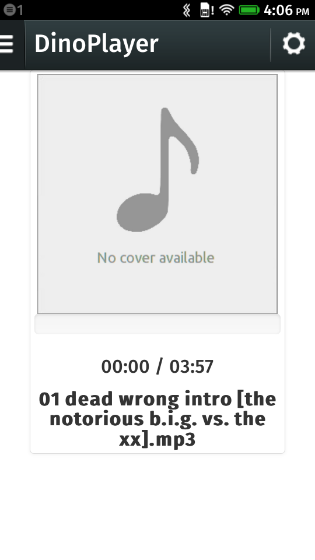
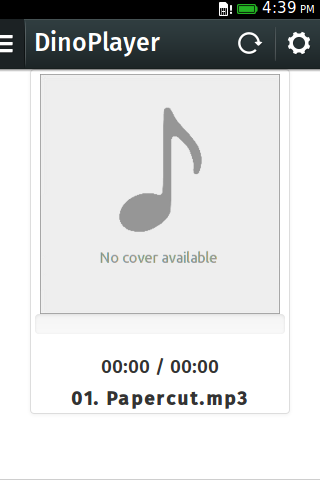
reload playlist button added

diff --git a/app/scripts/controllers/main.js b/app/scripts/controllers/main.js
@@ -20,6 +20,7 @@ angular.module('dinoplayerApp').controller('MainCtrl', ['$scope', '$timeout', '$
 
         if ($rootScope.isPlaying == undefined) {
             $rootScope.isPlaying = false;
+            $rootScope.$broadcast('controlchanged');
         }
 
         // set hash to handle details with server
@@ -111,6 +112,8 @@ angular.module('dinoplayerApp').controller('MainCtrl', ['$scope', '$timeout', '$
             var playlist = JSON.parse(playlist);
         } catch (error) {
             utils.status.show($translate('ERROR_PARSING_PLAYLIST'));
+            $rootScope.isLoaded = false;
+            return;
         }
         $rootScope.playlist = new Array();
         for (var i = 0; i < playlist.length; i++) {
@@ -124,18 +127,33 @@ angular.module('dinoplayerApp').controller('MainCtrl', ['$scope', '$timeout', '$
         $scope.$apply();
     };
 
+    $scope.reloadPlaylist = function() {
+        if ($rootScope.isPlaying) {
+            $rootScope.playPause();
+            console.log($rootScope.isPlaying);
+        }
+        if ($rootScope.settings.mediaurl == "") {
+            utils.status.show($translate('ERROR_NO_MEDIAURL'));
+        } else {
+            $scope.makeRequest($rootScope.settings.serviceurl + $rootScope.settings.mediaurl + "list.json", 'list');
+        }
+        console.log($rootScope.isPlaying);
+    };
+
     $rootScope.playPause = function() {
         if (!$rootScope.isLoaded) {
             utils.status.show($translate('ERROR_PLAYLIST_NOT_LOADED'));
-            return -1;
+            return;
         }
         if (!$rootScope.isPlaying) {
             $scope.getTrackIframe($rootScope.playlist[$rootScope.trackCounter].filename);
             $rootScope.audio.play();
             $rootScope.isPlaying = true;
+            $rootScope.$broadcast('controlchanged');
         } else {
             $rootScope.audio.pause();
             $rootScope.isPlaying = false;
+            $rootScope.$broadcast('controlchanged');
         }
     };
 
@@ -280,6 +298,7 @@ angular.module('dinoplayerApp').controller('MainCtrl', ['$scope', '$timeout', '$
         if ($rootScope.isPlaying) {
             $rootScope.audio.pause();
             $rootScope.isPlaying = false;
+            $rootScope.$broadcast('controlchanged');
             wasPlaying = true;
         }
         $rootScope.trackCounter = index;

diff --git a/app/scripts/app.js b/app/scripts/app.js
@@ -30,7 +30,8 @@ angular.module('dinoplayerApp', ['ui.bootstrap', 'pascalprecht.translate', 'angu
             'ERROR_PARSING_PLAYLIST': 'Error while parsing playlist!',
             'ERROR_PARSING_DETAILS': 'Error while parsing details',
             'ERROR_PARSING_COVER': 'Error while parsing cover',
-            'ERROR_PARSING_SETTINGS': 'Error while pasing settings'
+            'ERROR_PARSING_SETTINGS': 'Error while pasing settings',
+            'ERROR_NO_MEDIAURL': 'Please add a music folder first'
         });
 
         var huTranslation = {
@@ -51,7 +52,8 @@ angular.module('dinoplayerApp', ['ui.bootstrap', 'pascalprecht.translate', 'angu
             'ERROR_PARSING_PLAYLIST': 'Hiba történt a lejátszólista olvasásánál',
             'ERROR_PARSING_DETAILS': 'Hiba történt a szám részleteinek olvasásánál',
             'ERROR_PARSING_COVER': 'Hiba történt az album borítójának olvasásánál',
-            'ERROR_PARSING_SETTINGS': 'Hiba történt a beállítások olvasásánál'
+            'ERROR_PARSING_SETTINGS': 'Hiba történt a beállítások olvasásánál',
+            'ERROR_NO_MEDIAURL': 'Kérlek adj hozzá először egy zenemappát'
         };
         $translateProvider.translations('hu', huTranslation);
         $translateProvider.translations('hu-HU', huTranslation);

diff --git a/app/index.html b/app/index.html
@@ -57,7 +57,8 @@
         <a href="#"><span class="icon icon-menu">hide sidebar</span></a>
         <a href="#drawer" ng-click="dontShowControl()"><span class="icon icon-menu">show sidebar</span></a>
         <menu type="toolbar">
-              <a ng-click="openSettings()"><span class="icon icon-settings">settings</span></a>
+            <a ng-click="reloadPlaylist()"><span class="icon icon-reload">reload</span></a>
+            <a ng-click="openSettings()"><span class="icon icon-settings">settings</span></a>
         </menu>
         <h1>DinoPlayer</h1>
       </header>

diff --git a/app/scripts/directives/overlayController.js b/app/scripts/directives/overlayController.js
@@ -19,10 +19,8 @@ angular.module('dinoplayerApp').directive('overlayController', function ($timeou
 
             scope.playPause = function() {
                 $rootScope.isControlVisible = -1;
-
-                if ($rootScope.playPause() != -1) {
-                    scope.isPlaying = !scope.isPlaying;
-                }
+                $rootScope.playPause();
+                scope.isPlaying = $rootScope.isPlaying;
             };
         }
     };

diff --git a/app/styles/main.css b/app/styles/main.css
@@ -67,6 +67,10 @@ section[role="region"] > header:first-child .icon.icon-settings {
     background-image: url(../images/settings.png);
 }
 
+section[role="region"] > header:first-child .icon.icon-reload {
+    background-image: url(../images/reload.png);
+}
+
 .icon-dropbox {
     background-image: url(../images/dropbox.png);
     background-position: center center;

diff --git a/README.md b/README.md
@@ -4,6 +4,13 @@
 
 Simple HTM5 streaming music player using cloud storages
 
+*Features:*
+
+* Listening to music, without copying tracks to the phone
+* Full touchscreen-based control
+* Track details recognition (using ID3 tags)
+* Automatic album cover art search
+
 It is designed as a touchscreen-based music player, that can play music from many cloud storages (without using their APIs). You can control the player with gestures. To play or pause music simply tap the screen, for changing tracks swipe it.
 
 Available: *Coming soon*
